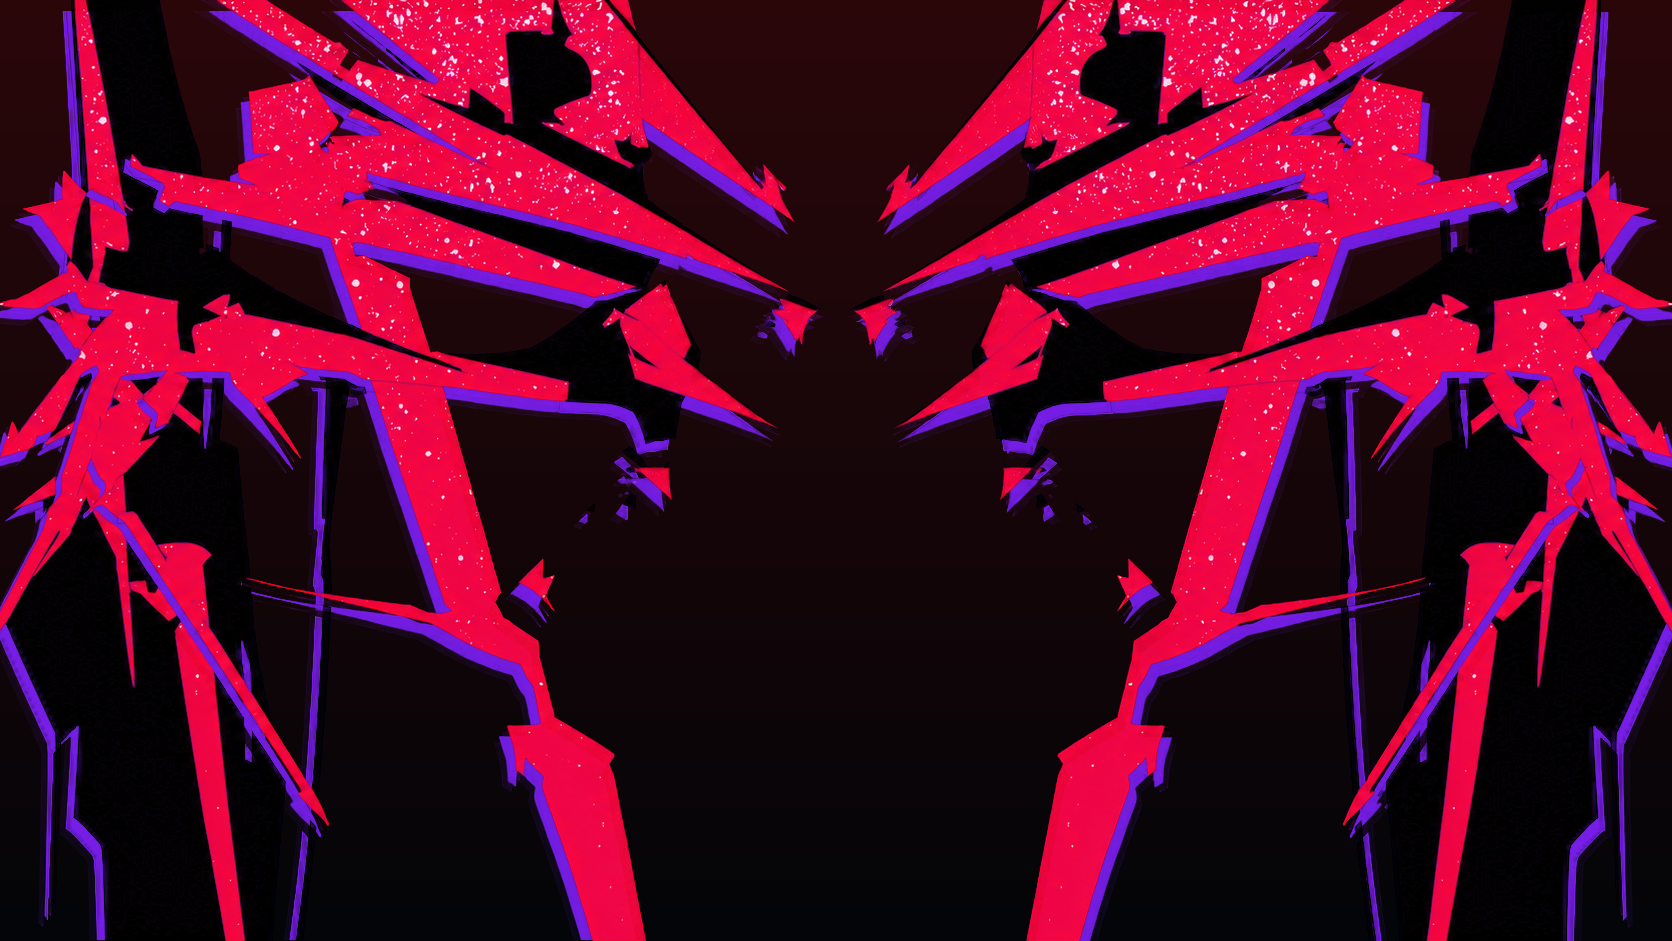
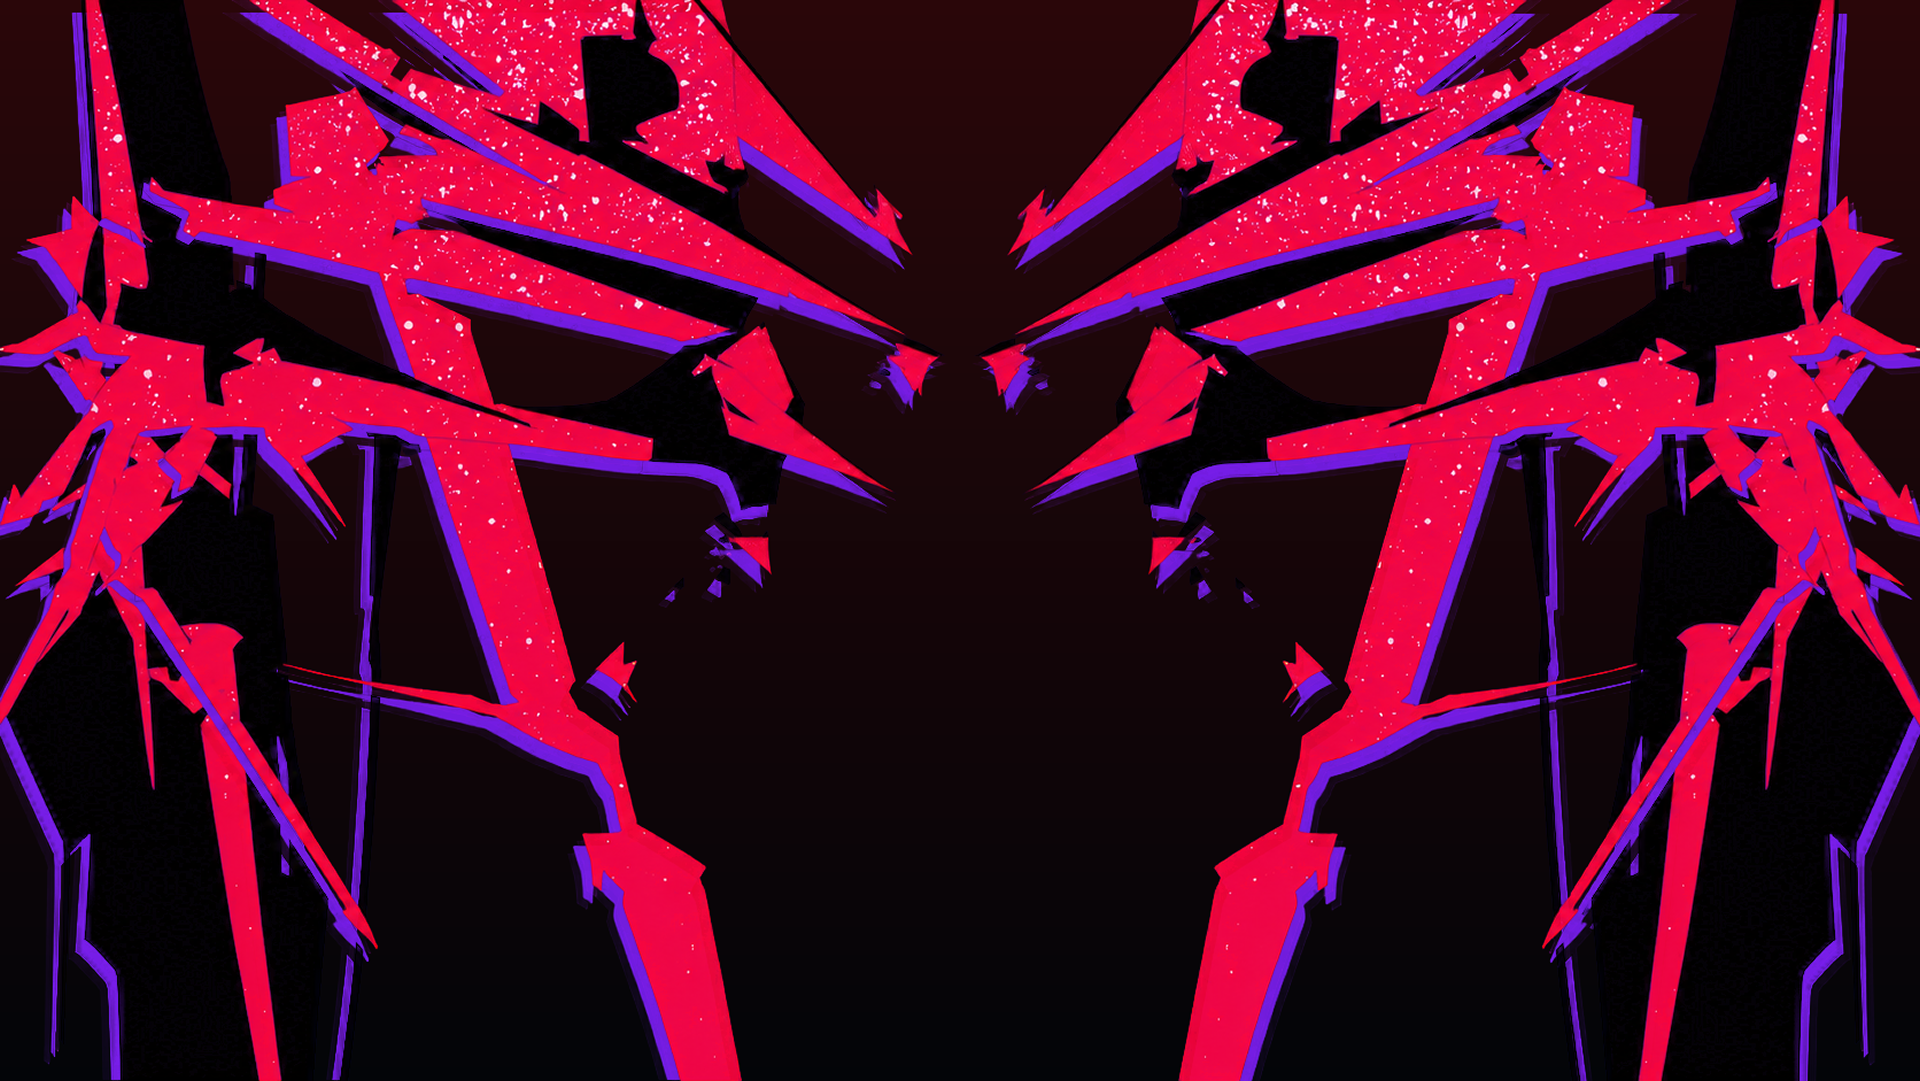
Background Fix

Changed region(s): [[0.8086, 0.6164, 0.8397, 0.6472]]

diff --git a/gbcss/Cyberpunk 2077/2026/Cyberpunk 2077.css b/gbcss/Cyberpunk 2077/2026/Cyberpunk 2077.css
@@ -117,20 +117,21 @@ dt {
 	display: none;
 }
 
+
 /* -------------------------- Main Background -------------------------- */
+
 body {
-    background: var(--ChyronMainGradient);
-	background-image: url(https://phencyclidine08.github.io/gbcss/Cyberpunk%202077/2026/assets/backgroundart.png);
-    background-size: 100%;
+    background-color: #010508;
+
+    background-image: url("https://phencyclidine08.github.io/gbcss/Cyberpunk%202077/2026/assets/backgroundart.png");
+    background-size: auto 100vh;
     background-position: center top;
     background-repeat: no-repeat;
     background-attachment: fixed;
-	font-family: var(--rb-body);
 
-
-    /* font-family: Park Lane; */
-    /* line-height: 1.75; */
+    font-family: var(--rb-body);
 }
+
 
 /* -------------------------- Removing Column & Footer Backgrounds -------------------------- */
 
